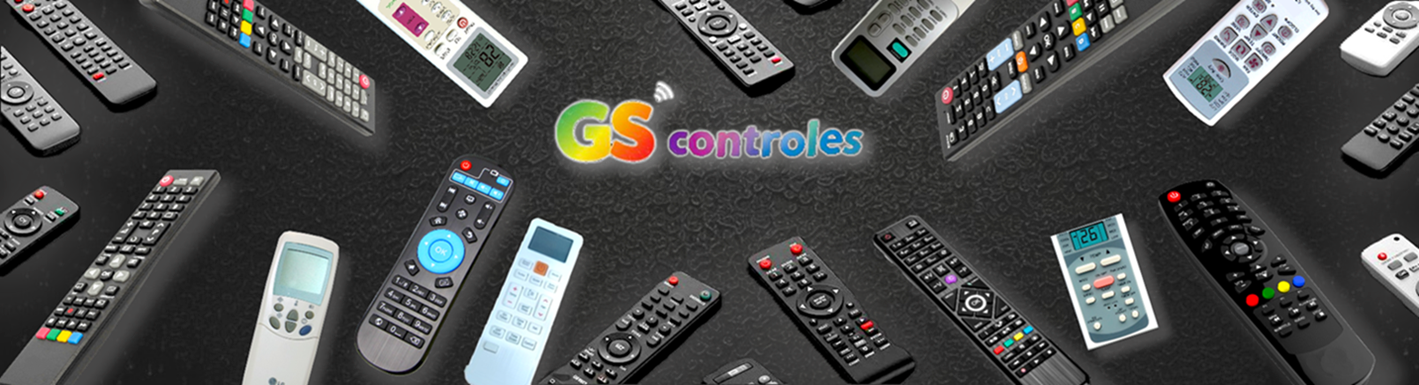
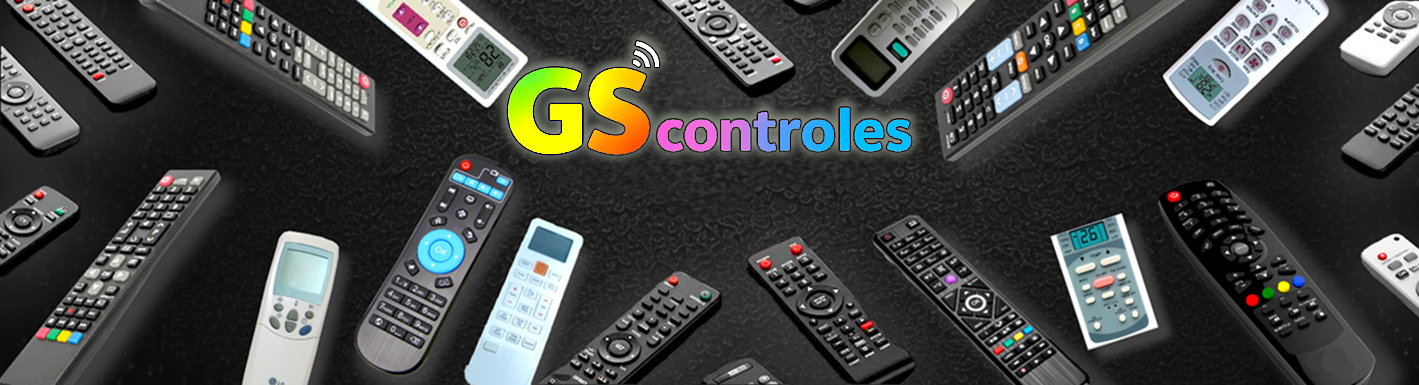
Mejorando calidad de imagen de los logosd

Changed region(s): [[0.3411, 0.0935, 0.6512, 0.561]]

diff --git a/assets/js/header.js b/assets/js/header.js
@@ -113,7 +113,7 @@ class Header extends HTMLElement {
                 content: url(${urlImageLogoHtml});
                 left: 1rem;
                 position: absolute;
-                width: 15%;
+                width: 14%;
             }
             .menu_buscador {
                 display: flex;

diff --git a/assets/css/contact.css b/assets/css/contact.css
@@ -123,7 +123,7 @@ input {
     height: 45%;
     margin-bottom: 1rem;
     object-fit: cover;
-    width: 45%;
+    width: 55%;
 }
 
 .input-container-invalid {
